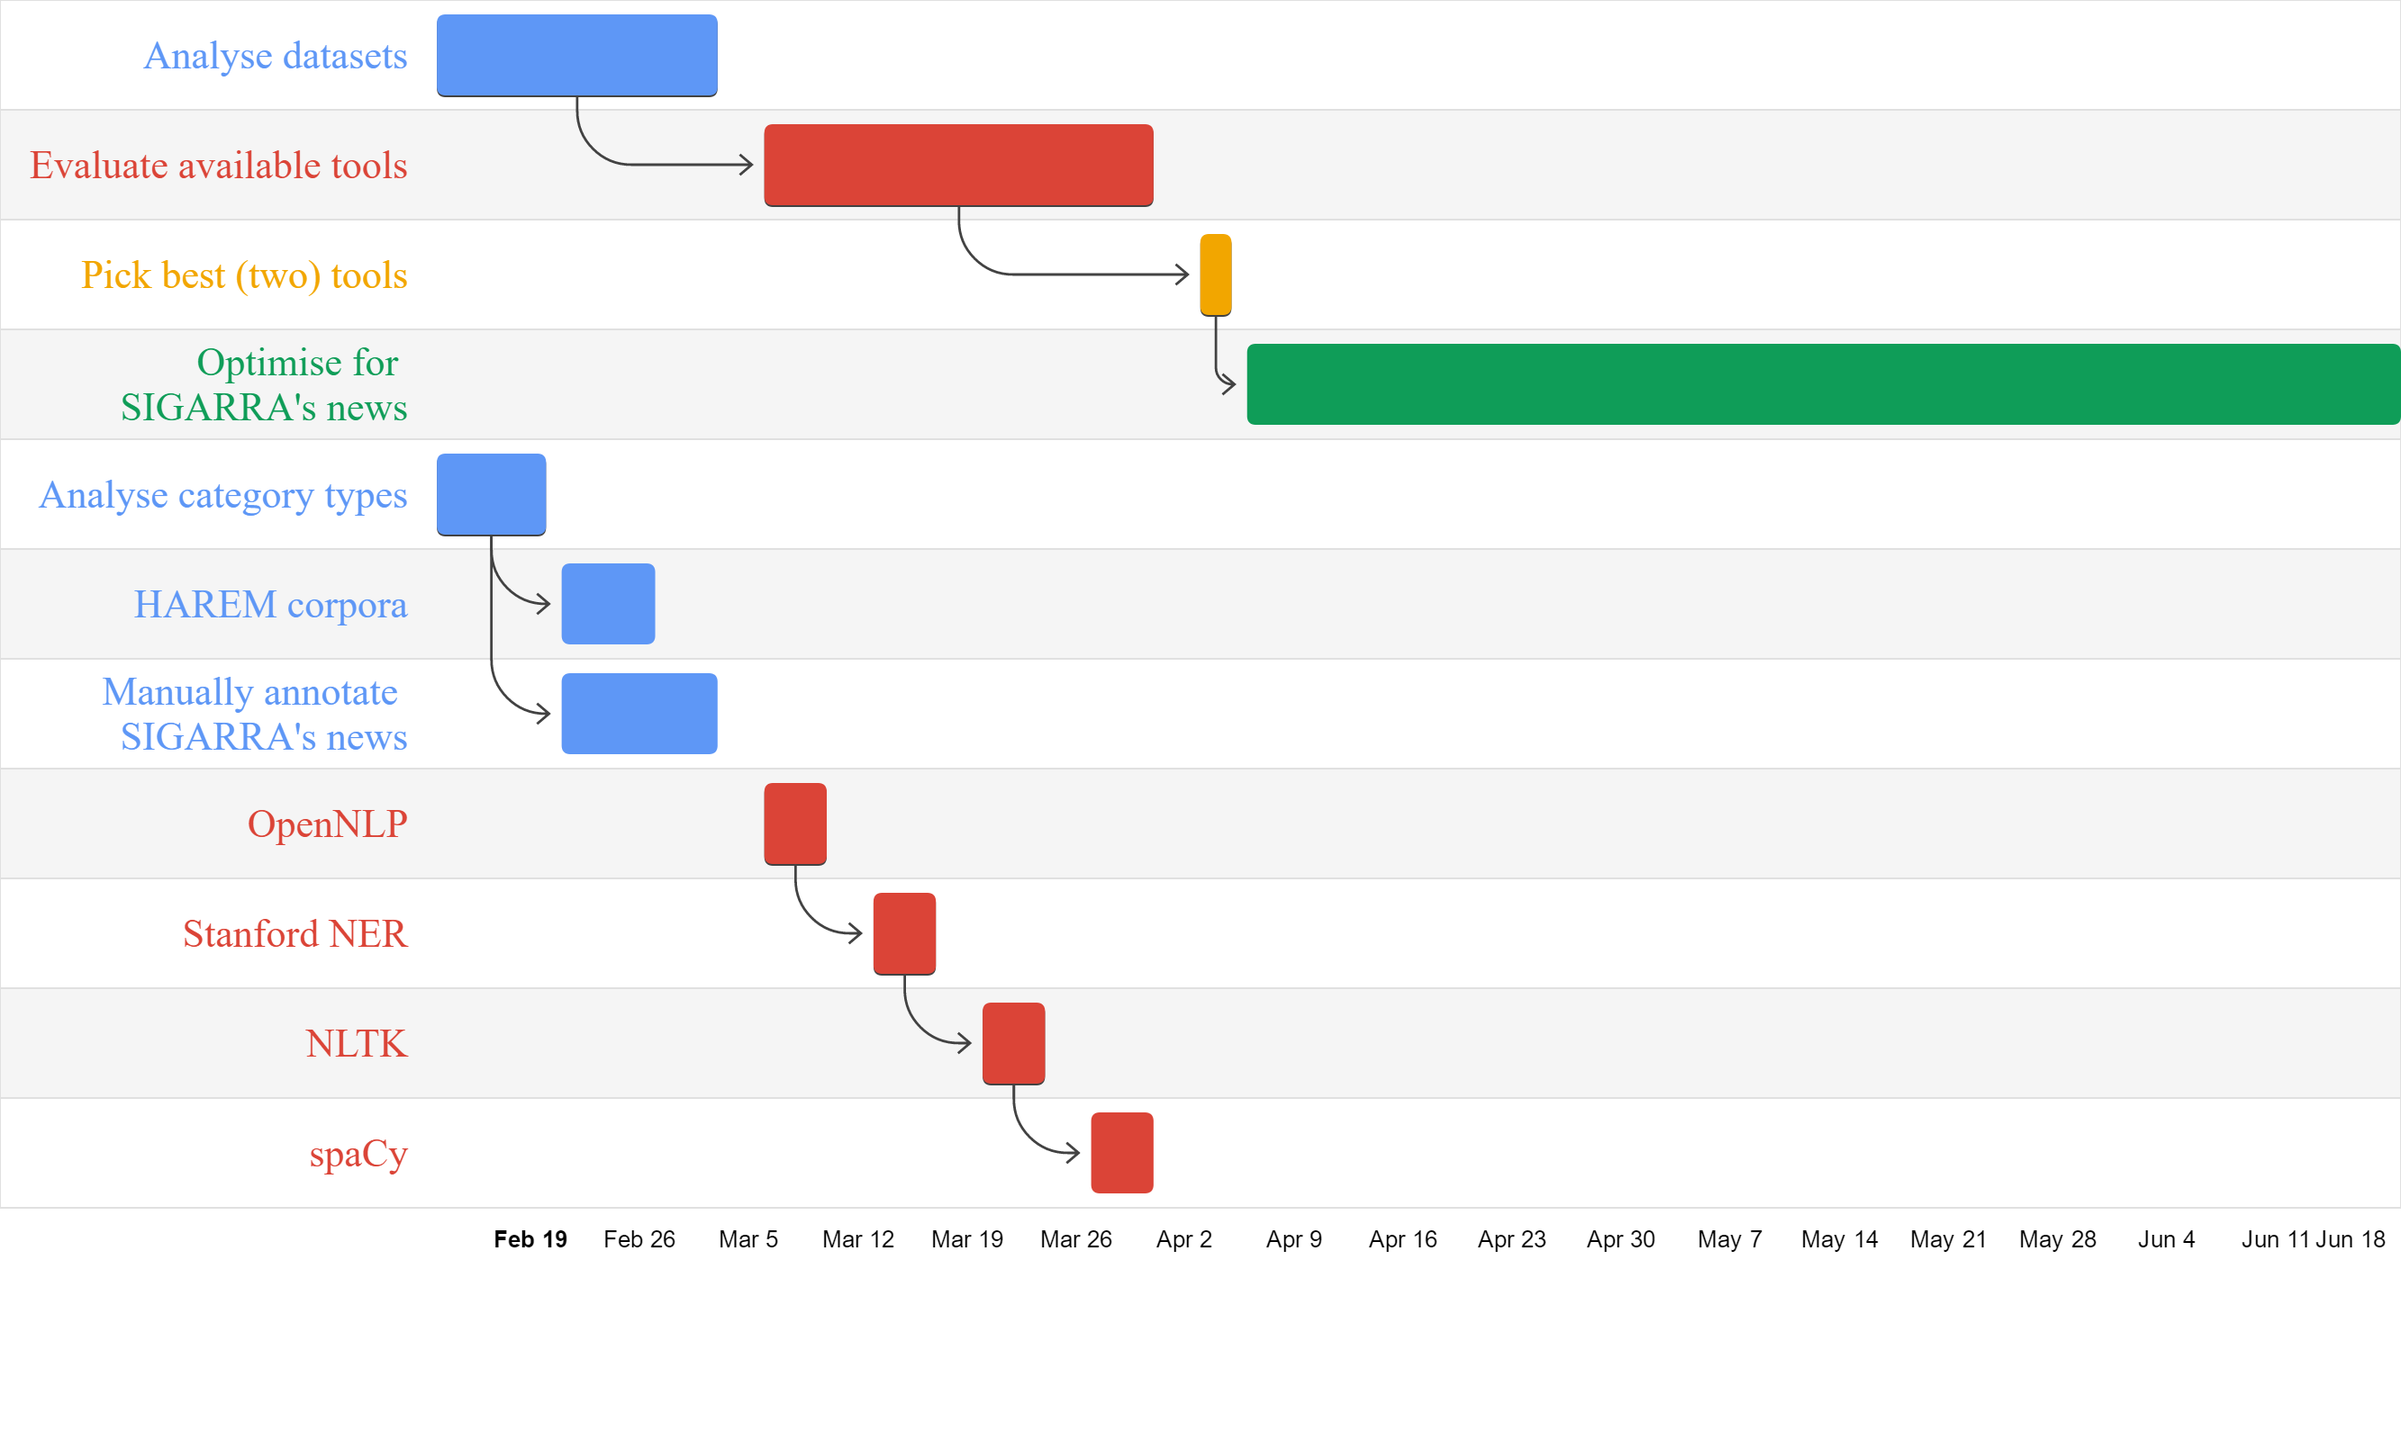
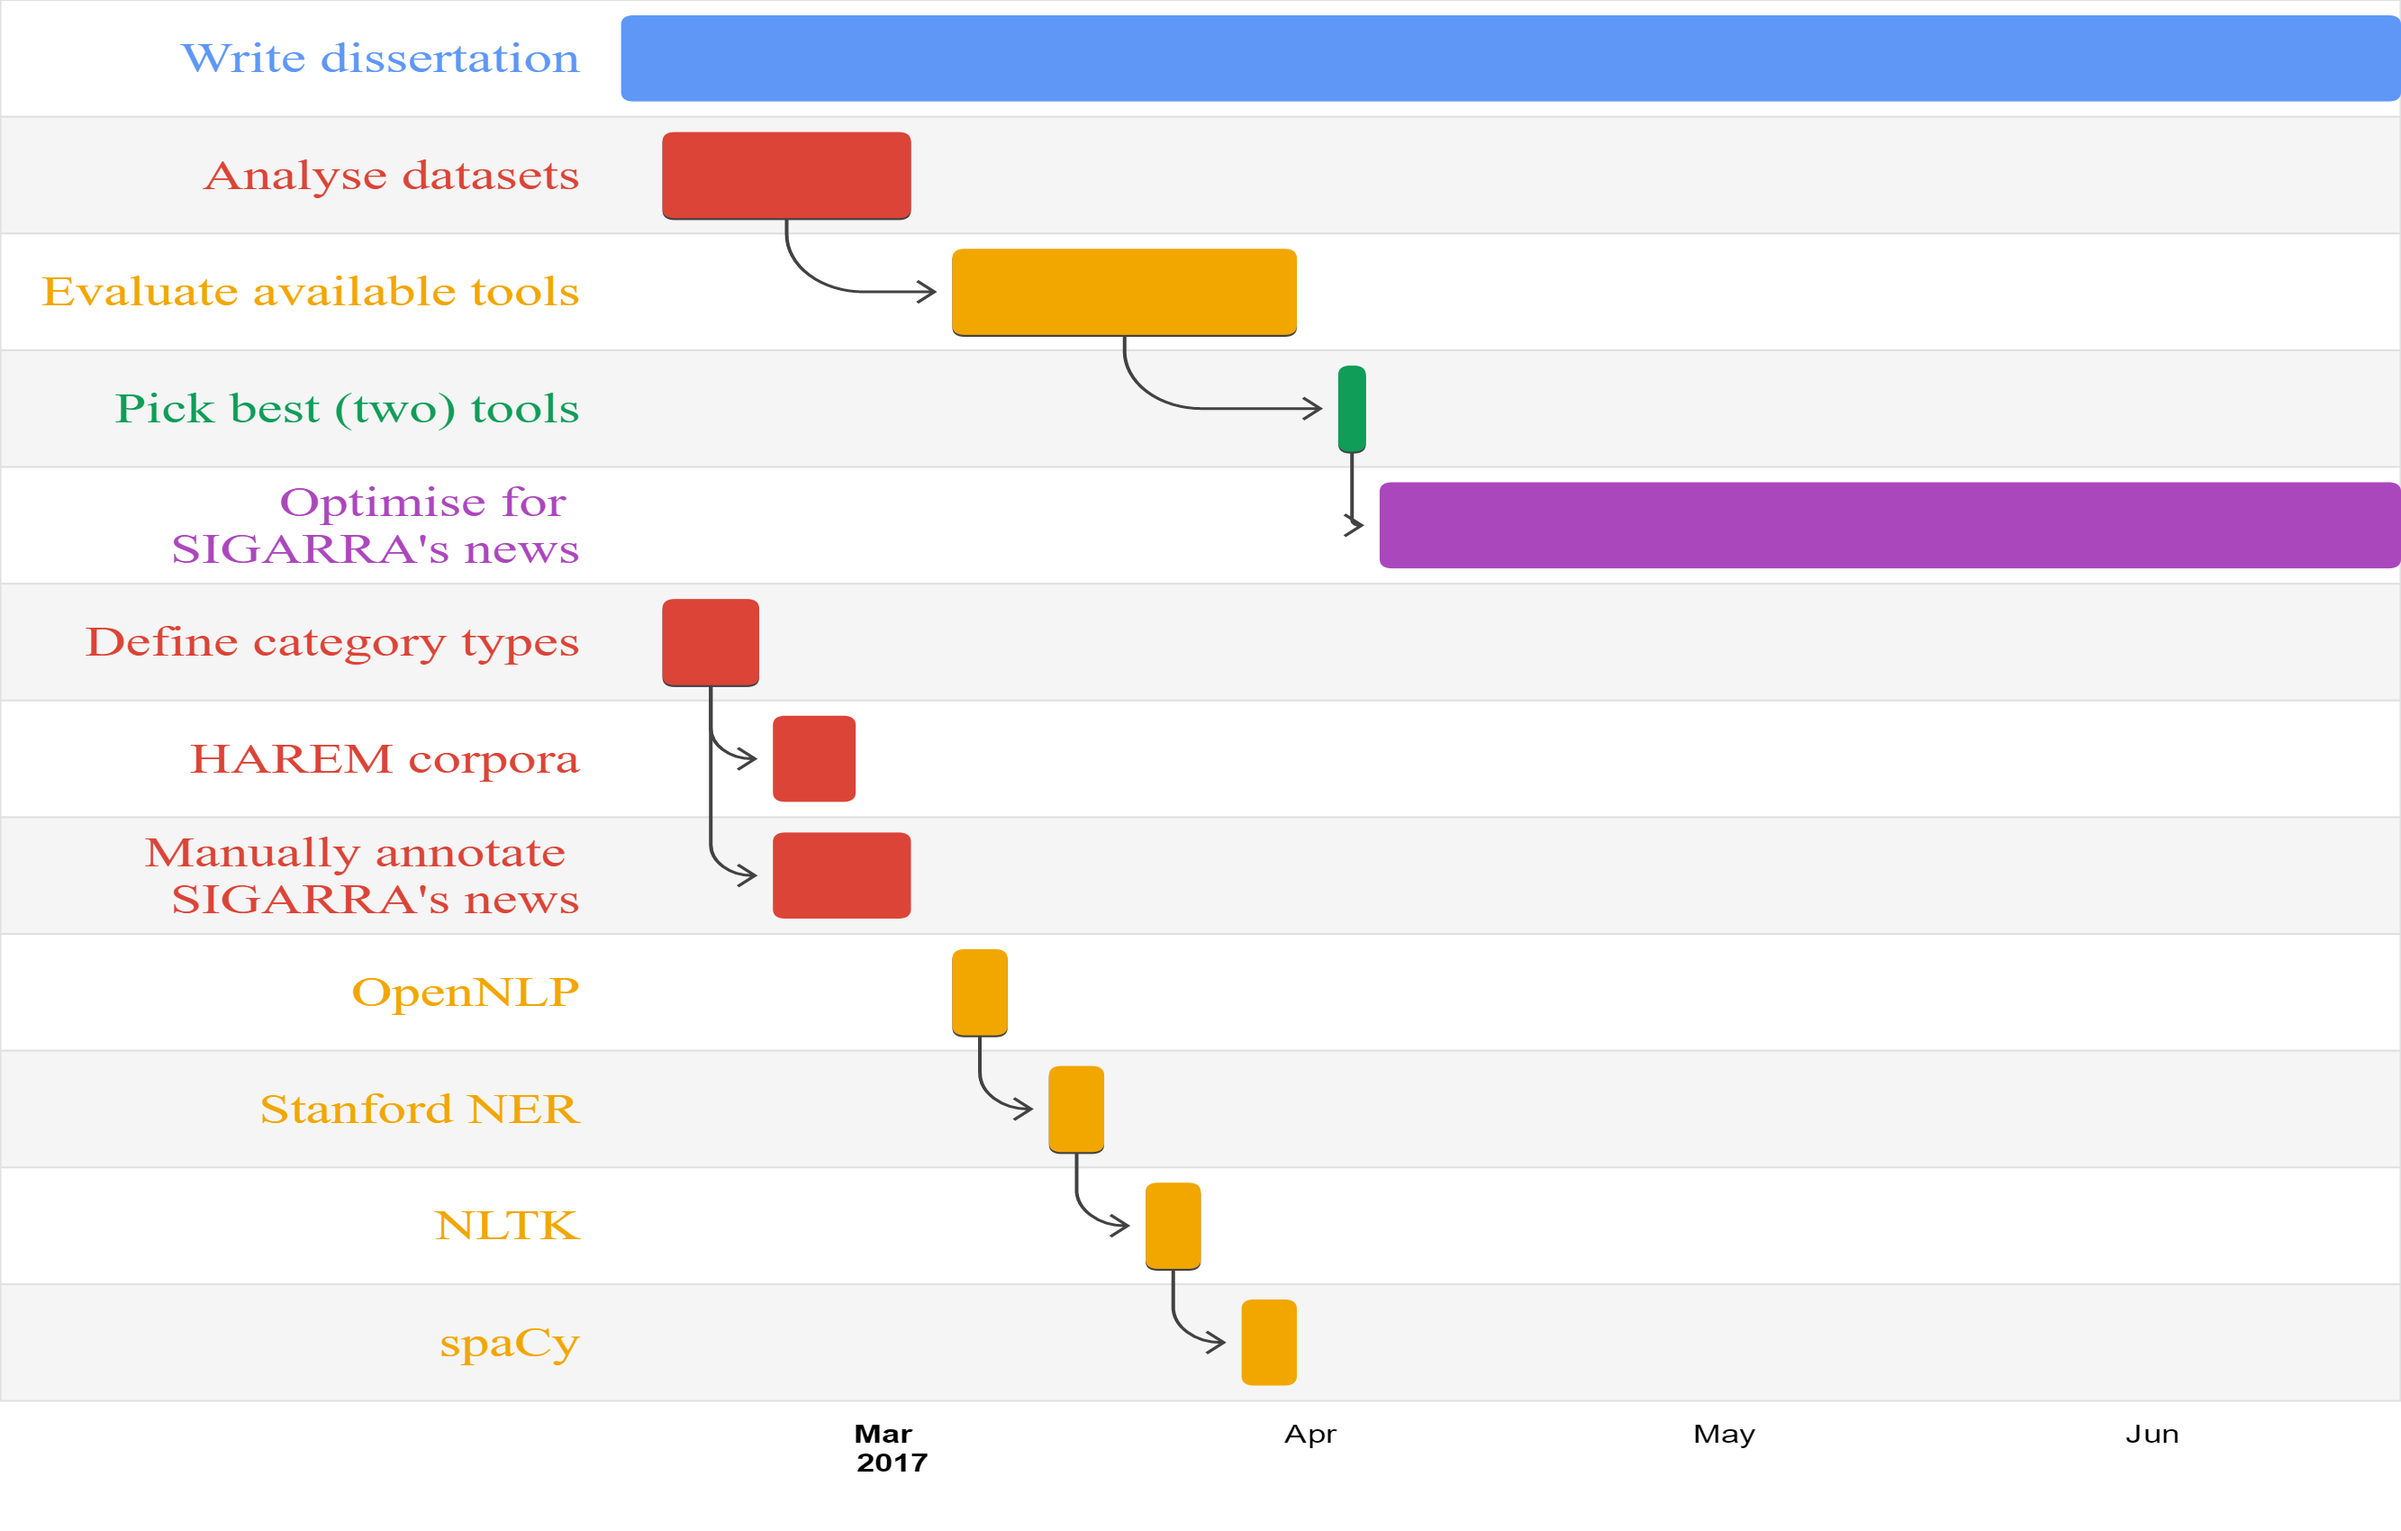
added thesis and updated cv

diff --git a/tese/gantt.html b/tese/gantt.html
@@ -23,31 +23,34 @@
       data.addColumn('string', 'Dependencies');
 
       data.addRows([
+        ['thesis', 'Write dissertation', 'thesis',
+         new Date(2017, 1, 10), new Date(2017, 5, 19), daysToMilliseconds(91),  0,  null],
+
         ['datasets', 'Analyse datasets', 'Analyse datasets',
-         new Date(2017, 1, 13), new Date(2017, 2, 3), daysToMilliseconds(16),  0,  null],
-        ['categories', 'Analyse category types', 'Analyse datasets',
+         new Date(2017, 1, 13), new Date(2017, 2, 3), daysToMilliseconds(15),  0,  null],
+        ['categories', 'Define category types', 'Analyse datasets',
          new Date(2017, 1, 13), new Date(2017, 1, 20), daysToMilliseconds(6),  0,  null],
         ['harem', 'HAREM corpora', 'Analyse datasets',
          new Date(2017, 1, 21), new Date(2017, 1, 27), daysToMilliseconds(5), 0, 'categories'],
         ['sigarra', 'Manually annotate \nSIGARRA\'s news', 'Analyse datasets',
-         new Date(2017, 1, 21), new Date(2017, 2, 3), daysToMilliseconds(10), 0, 'categories'],
+         new Date(2017, 1, 21), new Date(2017, 2, 3), daysToMilliseconds(9), 0, 'categories'],
 
         ['tools', 'Evaluate available tools', 'Available tools',
-         new Date(2017, 2, 6), new Date(2017, 2, 31), daysToMilliseconds(16), 0, 'datasets'],
+         new Date(2017, 2, 6), new Date(2017, 2, 31), daysToMilliseconds(20), 0, 'datasets'],
         ['opennlp', 'OpenNLP', 'Available tools',
-         new Date(2017, 2, 6), new Date(2017, 2, 10), daysToMilliseconds(4), 0, null],
+         new Date(2017, 2, 6), new Date(2017, 2, 10), daysToMilliseconds(5), 0, null],
         ['stanford', 'Stanford NER', 'Available tools',
-         new Date(2017, 2, 13), new Date(2017, 2, 17), daysToMilliseconds(4), 0, 'opennlp'],
+         new Date(2017, 2, 13), new Date(2017, 2, 17), daysToMilliseconds(5), 0, 'opennlp'],
         ['nltk', 'NLTK', 'Available tools',
-         new Date(2017, 2, 20), new Date(2017, 2, 24), daysToMilliseconds(4), 0, 'stanford'],
+         new Date(2017, 2, 20), new Date(2017, 2, 24), daysToMilliseconds(5), 0, 'stanford'],
         ['spacy', 'spaCy', 'Available tools',
-         new Date(2017, 2, 27), new Date(2017, 2, 31), daysToMilliseconds(4), 0, 'nltk'],
+         new Date(2017, 2, 27), new Date(2017, 2, 31), daysToMilliseconds(5), 0, 'nltk'],
 
         ['pick', 'Pick best (two) tools', 'Pick',
          new Date(2017, 3, 3), new Date(2017, 3, 5), daysToMilliseconds(3), 0, 'tools'],
 
         ['optimise', 'Optimise for \nSIGARRA\'s news', 'Optimise',
-         new Date(2017, 3, 6), new Date(2017, 5, 19), daysToMilliseconds(56), 0, 'pick']
+         new Date(2017, 3, 6), new Date(2017, 5, 19), daysToMilliseconds(53), 0, 'pick']
       ]);
 
       var options = {
@@ -64,22 +67,22 @@
       var chart = new google.visualization.Gantt(chart_div);
 
       // Wait for the chart to finish drawing before calling the getImageURI() method.
-	  /*google.visualization.events.addListener(chart, 'ready', function() {
+	  google.visualization.events.addListener(chart, 'ready', function() {
 	   	var svg = document.getElementsByTagName("svg")[0];
 	    console.log(svg);
 	    var output = document.getElementById('canvas');
 
 	    canvg(output, new XMLSerializer().serializeToString(svg), 
 	    	{ignoreDimensions: true, scaleWidth: output.width, scaleHeight: output.height});
-	  });*/
+	  });
 
       chart.draw(data, options);
     }
   </script>
 </head>
 <body>
-  <!--<canvas id="canvas" width="2666px" height="1600px"></canvas>-->
-  <!--<br>-->
+  <canvas id="canvas" width="2666px" height="1700px"></canvas>
+  <br>
   <div id="chart_div"></div>
 </body>
 </html>

diff --git a/index.html b/index.html
@@ -180,6 +180,7 @@
                     <p>My main skills are web and mobile development. I have multiple projects in this area.</p>
                     <p>I also have projects in the areas of Artificial Intelligence, Information Systems, Computer graphics, Computer Networks and Data Mining.</p>
                     <p>My main interests focus on web and mobile development, data bases and data mining.</p>
+                    <p>I am currently working on my Master thesis - <i>Entity and Relation extraction from web content</i> -, in the Information Extraction field, where its main purpose is to find a way to extract entities and relations from Portuguese texts.</p>
                     <p>Apart from informatics, I enjoy playing the piano.</p>
                 </div>
             </div>
